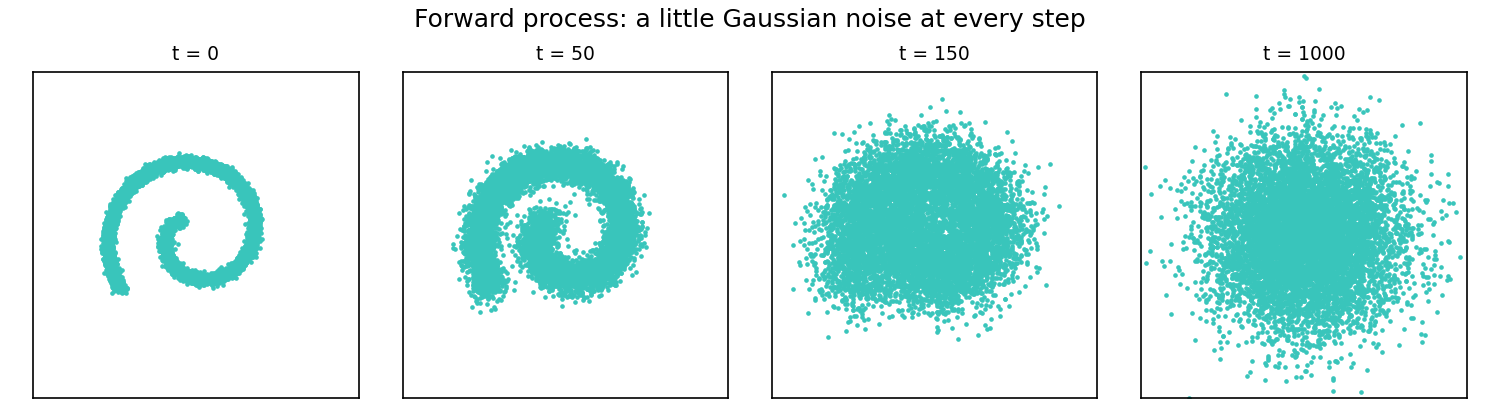
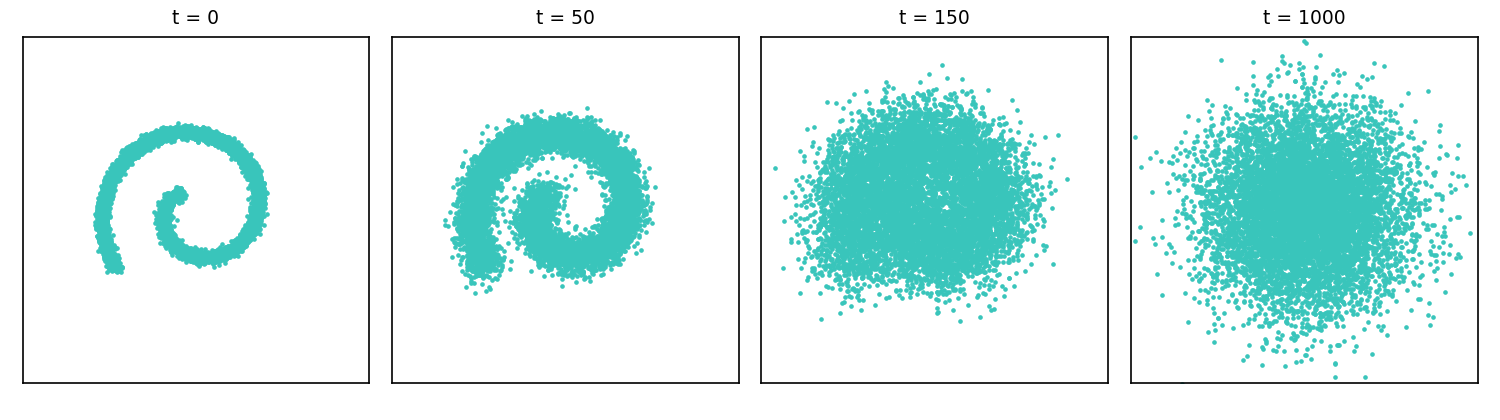
Modifications

diff --git a/diffusion.py b/diffusion.py
@@ -112,7 +112,7 @@ def main():
     for ax, t in zip(axes, ts):
         xt, _ = q_sample(data, torch.full((len(data),), t))
         scatter(ax, xt.numpy(), f"t = {t if t < T - 1 else T}")
-    fig.suptitle("Forward process: a little Gaussian noise at every step")
+    # fig.suptitle("Forward process: a little Gaussian noise at every step")
     fig.tight_layout(); fig.savefig("forward.png", dpi=150)
 
     # --- training: L_simple = E || eps - eps_theta(x_t, t) ||^2 ---

diff --git a/README.md b/README.md
@@ -1,6 +1,6 @@
 # Diffusion
 
-A Denoising Diffusion Probabilistic Model (DDPM) built from scratch in PyTorch. We start with 2-D points (a spiral) before images: the mathematics is identical, yet training finishes in minutes on a CPU.
+A Denoising Diffusion Probabilistic Model (DDPM) implemented from scratch with PyTorch. Start with 2-D points (a spiral) before images: the mathematics is identical, yet training finishes in minutes on a CPU. The picture below shows visualisation of ?.
 
 ![Forward process](forward.png)
 
